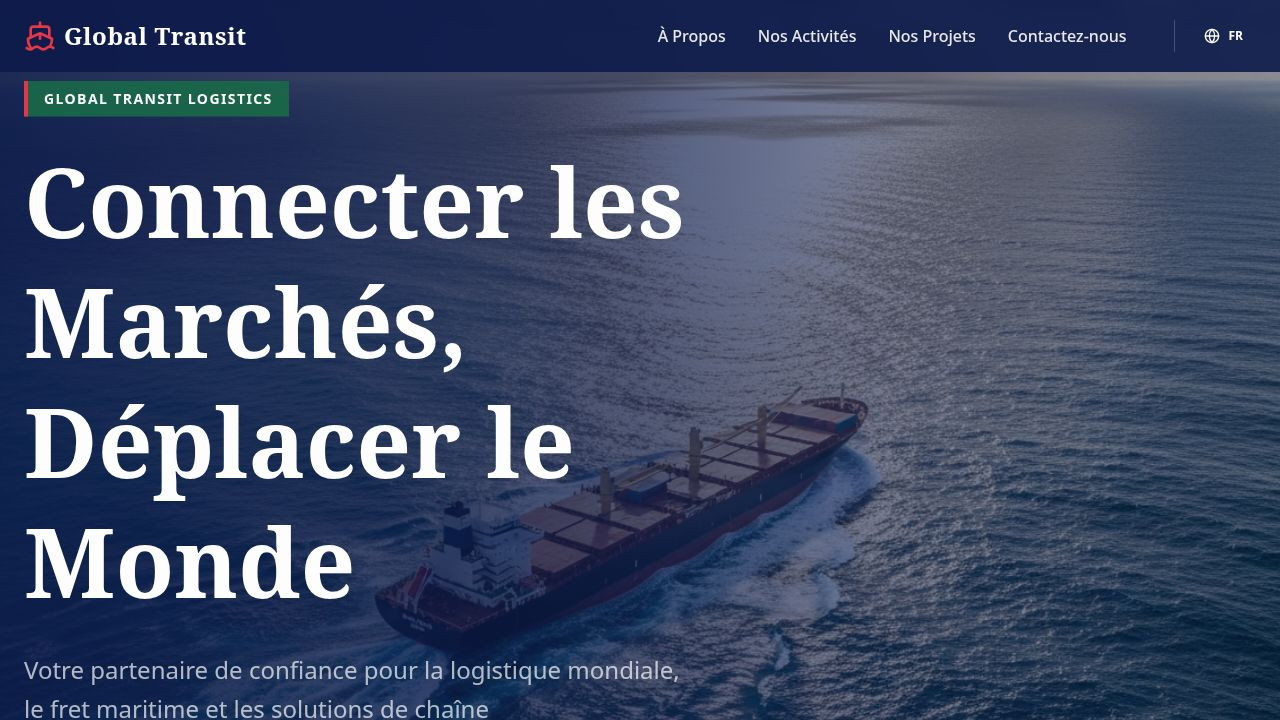
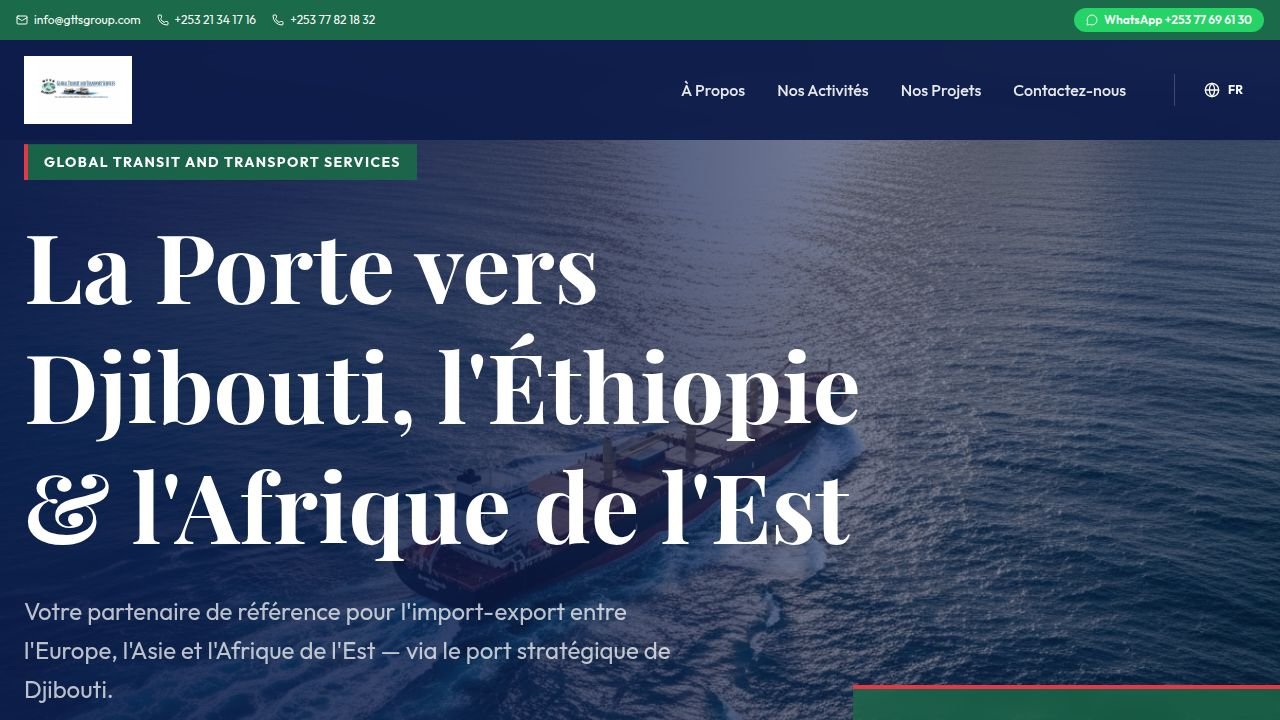
Add contact information header and update footer details
Add a new top information bar to the Navbar component displaying contact details and a WhatsApp link. Update the Footer component to reflect the new contact information. Adjust Hero section padding to accommodate the taller header. Update contact details in translations.ts for all supported languages.

Replit-Commit-Author: Agent
Replit-Commit-Session-Id: 2fb76b32-075e-4260-bca7-cb46e33f7829
Replit-Commit-Checkpoint-Type: full_checkpoint
Replit-Commit-Event-Id: 19b93517-0f2f-4354-bd1c-0c79bc31b962
Replit-Commit-Screenshot-Url: https://storage.googleapis.com/screenshot-production-us-central1/4466b6cd-e91d-4018-956e-8f0a4345f341/2fb76b32-075e-4260-bca7-cb46e33f7829/XrCFsln
Replit-Helium-Checkpoint-Created: true

diff --git a/artifacts/global-transit/src/components/layout/Navbar.tsx b/artifacts/global-transit/src/components/layout/Navbar.tsx
@@ -1,9 +1,8 @@
 import { useState, useEffect } from "react";
-import { Link } from "wouter";
 import { useLanguage } from "../../contexts/LanguageContext";
 import { Button } from "@/components/ui/button";
 import { DropdownMenu, DropdownMenuContent, DropdownMenuItem, DropdownMenuTrigger } from "@/components/ui/dropdown-menu";
-import { Globe, Menu, X } from "lucide-react";
+import { Globe, Menu, X, Phone, Mail, MessageCircle } from "lucide-react";
 import { Language } from "../../translations";
 
 const languages: { code: Language; label: string; name: string }[] = [
@@ -14,6 +13,9 @@ const languages: { code: Language; label: string; name: string }[] = [
   { code: 'so', label: 'SO', name: 'Soomaali' },
   { code: 'orm', label: 'OR', name: 'Afaan Oromoo' },
 ];
+
+const WHATSAPP_NUMBER = "25377696130";
+const WHATSAPP_URL = `https://wa.me/${WHATSAPP_NUMBER}`;
 
 export function Navbar() {
   const { language, setLanguage, t } = useLanguage();
@@ -37,98 +39,139 @@ export function Navbar() {
   };
 
   return (
-    <header className={`fixed top-0 w-full z-50 transition-all duration-300 ${isScrolled ? 'bg-primary shadow-md py-3' : 'bg-primary/90 backdrop-blur-sm py-5'}`}>
-      <div className="container mx-auto px-4 md:px-6 flex items-center justify-between">
-        <div className="flex items-center cursor-pointer" onClick={() => scrollTo('hero')}>
-          <div className="bg-white rounded-md px-3 py-1.5">
-            <img src="/logo.png" alt="Global Transit and Transport Services" className="h-14 w-auto" />
+    <header className="fixed top-0 w-full z-50">
+      {/* Top Info Bar */}
+      <div className="bg-[#1B6B4A] text-white text-xs py-2 px-4">
+        <div className="container mx-auto flex flex-wrap items-center justify-between gap-2">
+          <div className="flex items-center gap-4 flex-wrap">
+            <a href="mailto:info@gttsgroup.com" className="flex items-center gap-1.5 hover:text-white/80 transition-colors">
+              <Mail className="h-3 w-3 shrink-0" />
+              <span>info@gttsgroup.com</span>
+            </a>
+            <span className="hidden sm:flex items-center gap-1.5">
+              <Phone className="h-3 w-3 shrink-0" />
+              <span>+253 21 34 17 16</span>
+            </span>
+            <span className="hidden md:flex items-center gap-1.5">
+              <Phone className="h-3 w-3 shrink-0" />
+              <span>+253 77 82 18 32</span>
+            </span>
           </div>
+          <a
+            href={WHATSAPP_URL}
+            target="_blank"
+            rel="noopener noreferrer"
+            className="flex items-center gap-1.5 bg-[#25D366] hover:bg-[#20b859] text-white px-3 py-1 rounded-full font-semibold transition-colors"
+          >
+            <MessageCircle className="h-3 w-3" />
+            <span>WhatsApp +253 77 69 61 30</span>
+          </a>
         </div>
-
-        {/* Desktop Nav */}
-        <nav className="hidden lg:flex items-center gap-8">
-          <DropdownMenu>
-            <DropdownMenuTrigger className="text-white/90 hover:text-white transition-colors font-medium outline-none">
-              {t.nav.aboutUs}
-            </DropdownMenuTrigger>
-            <DropdownMenuContent className="bg-white border-none rounded-none shadow-xl min-w-[200px] mt-4">
-              <DropdownMenuItem className="cursor-pointer hover:bg-muted py-3 px-4 font-medium text-primary rounded-none" onClick={() => scrollTo('about')}>{t.nav.ourCompany}</DropdownMenuItem>
-              <DropdownMenuItem className="cursor-pointer hover:bg-muted py-3 px-4 font-medium text-primary rounded-none" onClick={() => scrollTo('about')}>{t.nav.ourTeam}</DropdownMenuItem>
-              <DropdownMenuItem className="cursor-pointer hover:bg-muted py-3 px-4 font-medium text-primary rounded-none" onClick={() => scrollTo('about')}>{t.nav.careers}</DropdownMenuItem>
-            </DropdownMenuContent>
-          </DropdownMenu>
-          
-          <button onClick={() => scrollTo('business')} className="text-white/90 hover:text-white transition-colors font-medium">
-            {t.nav.ourBusiness}
-          </button>
-          <button onClick={() => scrollTo('projects')} className="text-white/90 hover:text-white transition-colors font-medium">
-            {t.nav.ourProjects}
-          </button>
-          <button onClick={() => scrollTo('contact')} className="text-white/90 hover:text-white transition-colors font-medium">
-            {t.nav.contactUs}
-          </button>
-
-          <div className="flex items-center gap-4 ml-4 pl-4 border-l border-white/20">
-            <DropdownMenu>
-              <DropdownMenuTrigger asChild>
-                <Button variant="ghost" size="sm" className="text-white hover:bg-white/10 hover:text-white rounded-none flex items-center gap-2">
-                  <Globe className="h-4 w-4" />
-                  <span className="font-bold">{languages.find(l => l.code === language)?.label}</span>
-                </Button>
-              </DropdownMenuTrigger>
-              <DropdownMenuContent align="end" className="bg-white rounded-none shadow-xl border-none">
-                {languages.map((lang) => (
-                  <DropdownMenuItem 
-                    key={lang.code}
-                    className={`cursor-pointer py-2 px-4 rounded-none ${language === lang.code ? 'bg-primary/5 font-bold text-primary' : 'text-foreground'}`}
-                    onClick={() => setLanguage(lang.code)}
-                  >
-                    {lang.name}
-                  </DropdownMenuItem>
-                ))}
-              </DropdownMenuContent>
-            </DropdownMenu>
-          </div>
-        </nav>
-
-        {/* Mobile menu button */}
-        <button className="lg:hidden text-white" onClick={() => setMobileMenuOpen(!mobileMenuOpen)}>
-          {mobileMenuOpen ? <X className="h-6 w-6" /> : <Menu className="h-6 w-6" />}
-        </button>
       </div>
 
-      {/* Mobile Nav */}
-      {mobileMenuOpen && (
-        <div className="lg:hidden absolute top-full left-0 w-full bg-primary border-t border-white/10 shadow-xl flex flex-col p-4 z-50">
-          <button onClick={() => scrollTo('about')} className="text-left text-white py-4 border-b border-white/10 font-medium">
-            {t.nav.aboutUs}
-          </button>
-          <button onClick={() => scrollTo('business')} className="text-left text-white py-4 border-b border-white/10 font-medium">
-            {t.nav.ourBusiness}
-          </button>
-          <button onClick={() => scrollTo('projects')} className="text-left text-white py-4 border-b border-white/10 font-medium">
-            {t.nav.ourProjects}
-          </button>
-          <button onClick={() => scrollTo('contact')} className="text-left text-white py-4 border-b border-white/10 font-medium">
-            {t.nav.contactUs}
-          </button>
-          
-          <div className="pt-6 pb-2">
-            <p className="text-white/50 text-sm mb-3 uppercase tracking-wider">Select Language</p>
-            <div className="grid grid-cols-2 gap-2">
-              {languages.map((lang) => (
-                <button
-                  key={lang.code}
-                  onClick={() => { setLanguage(lang.code); setMobileMenuOpen(false); }}
-                  className={`text-left py-2 px-3 ${language === lang.code ? 'bg-white/20 text-white font-bold' : 'text-white/70 hover:bg-white/10'}`}
-                >
-                  {lang.name}
-                </button>
-              ))}
+      {/* Main Nav */}
+      <div className={`transition-all duration-300 ${isScrolled ? 'bg-primary shadow-md py-3' : 'bg-primary/95 backdrop-blur-sm py-4'}`}>
+        <div className="container mx-auto px-4 md:px-6 flex items-center justify-between">
+          <div className="flex items-center cursor-pointer" onClick={() => scrollTo('hero')}>
+            <div className="bg-white rounded-md px-3 py-1.5">
+              <img src="/logo.png" alt="Global Transit and Transport Services" className="h-14 w-auto" />
             </div>
           </div>
+
+          {/* Desktop Nav */}
+          <nav className="hidden lg:flex items-center gap-8">
+            <DropdownMenu>
+              <DropdownMenuTrigger className="text-white/90 hover:text-white transition-colors font-medium outline-none">
+                {t.nav.aboutUs}
+              </DropdownMenuTrigger>
+              <DropdownMenuContent className="bg-white border-none rounded-none shadow-xl min-w-[200px] mt-4">
+                <DropdownMenuItem className="cursor-pointer hover:bg-muted py-3 px-4 font-medium text-primary rounded-none" onClick={() => scrollTo('about')}>{t.nav.ourCompany}</DropdownMenuItem>
+                <DropdownMenuItem className="cursor-pointer hover:bg-muted py-3 px-4 font-medium text-primary rounded-none" onClick={() => scrollTo('about')}>{t.nav.ourTeam}</DropdownMenuItem>
+                <DropdownMenuItem className="cursor-pointer hover:bg-muted py-3 px-4 font-medium text-primary rounded-none" onClick={() => scrollTo('about')}>{t.nav.careers}</DropdownMenuItem>
+              </DropdownMenuContent>
+            </DropdownMenu>
+
+            <button onClick={() => scrollTo('business')} className="text-white/90 hover:text-white transition-colors font-medium">
+              {t.nav.ourBusiness}
+            </button>
+            <button onClick={() => scrollTo('projects')} className="text-white/90 hover:text-white transition-colors font-medium">
+              {t.nav.ourProjects}
+            </button>
+            <button onClick={() => scrollTo('contact')} className="text-white/90 hover:text-white transition-colors font-medium">
+              {t.nav.contactUs}
+            </button>
+
+            <div className="flex items-center gap-4 ml-4 pl-4 border-l border-white/20">
+              <DropdownMenu>
+                <DropdownMenuTrigger asChild>
+                  <Button variant="ghost" size="sm" className="text-white hover:bg-white/10 hover:text-white rounded-none flex items-center gap-2">
+                    <Globe className="h-4 w-4" />
+                    <span className="font-bold">{languages.find(l => l.code === language)?.label}</span>
+                  </Button>
+                </DropdownMenuTrigger>
+                <DropdownMenuContent align="end" className="bg-white rounded-none shadow-xl border-none">
+                  {languages.map((lang) => (
+                    <DropdownMenuItem
+                      key={lang.code}
+                      className={`cursor-pointer py-2 px-4 rounded-none ${language === lang.code ? 'bg-primary/5 font-bold text-primary' : 'text-foreground'}`}
+                      onClick={() => setLanguage(lang.code)}
+                    >
+                      {lang.name}
+                    </DropdownMenuItem>
+                  ))}
+                </DropdownMenuContent>
+              </DropdownMenu>
+            </div>
+          </nav>
+
+          {/* Mobile menu button */}
+          <button className="lg:hidden text-white" onClick={() => setMobileMenuOpen(!mobileMenuOpen)}>
+            {mobileMenuOpen ? <X className="h-6 w-6" /> : <Menu className="h-6 w-6" />}
+          </button>
         </div>
-      )}
+
+        {/* Mobile Nav */}
+        {mobileMenuOpen && (
+          <div className="lg:hidden absolute top-full left-0 w-full bg-primary border-t border-white/10 shadow-xl flex flex-col p-4 z-50">
+            <button onClick={() => scrollTo('about')} className="text-left text-white py-4 border-b border-white/10 font-medium">
+              {t.nav.aboutUs}
+            </button>
+            <button onClick={() => scrollTo('business')} className="text-left text-white py-4 border-b border-white/10 font-medium">
+              {t.nav.ourBusiness}
+            </button>
+            <button onClick={() => scrollTo('projects')} className="text-left text-white py-4 border-b border-white/10 font-medium">
+              {t.nav.ourProjects}
+            </button>
+            <button onClick={() => scrollTo('contact')} className="text-left text-white py-4 border-b border-white/10 font-medium">
+              {t.nav.contactUs}
+            </button>
+            <a
+              href={WHATSAPP_URL}
+              target="_blank"
+              rel="noopener noreferrer"
+              className="flex items-center gap-2 text-white py-4 border-b border-white/10 font-medium"
+            >
+              <MessageCircle className="h-4 w-4 text-[#25D366]" />
+              WhatsApp : +253 77 69 61 30
+            </a>
+
+            <div className="pt-6 pb-2">
+              <p className="text-white/50 text-sm mb-3 uppercase tracking-wider">Select Language</p>
+              <div className="grid grid-cols-2 gap-2">
+                {languages.map((lang) => (
+                  <button
+                    key={lang.code}
+                    onClick={() => { setLanguage(lang.code); setMobileMenuOpen(false); }}
+                    className={`text-left py-2 px-3 ${language === lang.code ? 'bg-white/20 text-white font-bold' : 'text-white/70 hover:bg-white/10'}`}
+                  >
+                    {lang.name}
+                  </button>
+                ))}
+              </div>
+            </div>
+          </div>
+        )}
+      </div>
     </header>
   );
 }

diff --git a/artifacts/global-transit/src/translations.ts b/artifacts/global-transit/src/translations.ts
@@ -92,8 +92,8 @@ export const translations = {
       info: {
         title: "Siège Social — Djibouti",
         address: "Avenue du Général de Gaulle, BP 2450, Djibouti-Ville",
-        phone: "+253 21 35 40 00",
-        email: "operations@globaltransit.dj"
+        phone: "+253 77 82 18 32 | +253 21 34 17 16 | +253 77 69 61 30",
+        email: "info@gttsgroup.com"
       }
     },
     footer: {
@@ -194,8 +194,8 @@ export const translations = {
       info: {
         title: "المقر الرئيسي — جيبوتي",
         address: "شارع الجنرال ديغول، ص.ب 2450، مدينة جيبوتي",
-        phone: "+253 21 35 40 00",
-        email: "operations@globaltransit.dj"
+        phone: "+253 77 82 18 32 | +253 21 34 17 16 | +253 77 69 61 30",
+        email: "info@gttsgroup.com"
       }
     },
     footer: {
@@ -296,8 +296,8 @@ export const translations = {
       info: {
         title: "ዋና መሥሪያ ቤት — ጅቡቲ",
         address: "አቨኑ ዱ ጄነራል ዴ ጎል፣ ፒኦ ሳጥን 2450፣ ጅቡቲ ከተማ",
-        phone: "+253 21 35 40 00",
-        email: "operations@globaltransit.dj"
+        phone: "+253 77 82 18 32 | +253 21 34 17 16 | +253 77 69 61 30",
+        email: "info@gttsgroup.com"
       }
     },
     footer: {
@@ -398,8 +398,8 @@ export const translations = {
       info: {
         title: "Makao Makuu — Djibouti",
         address: "Njia ya Jenerali de Gaulle, S.L.P 2450, Mji wa Djibouti",
-        phone: "+253 21 35 40 00",
-        email: "operations@globaltransit.dj"
+        phone: "+253 77 82 18 32 | +253 21 34 17 16 | +253 77 69 61 30",
+        email: "info@gttsgroup.com"
       }
     },
     footer: {
@@ -500,8 +500,8 @@ export const translations = {
       info: {
         title: "Xafiiska Guud — Jabuuti",
         address: "Avenue du Général de Gaulle, BP 2450, Magaalada Jabuuti",
-        phone: "+253 21 35 40 00",
-        email: "operations@globaltransit.dj"
+        phone: "+253 77 82 18 32 | +253 21 34 17 16 | +253 77 69 61 30",
+        email: "info@gttsgroup.com"
       }
     },
     footer: {
@@ -602,8 +602,8 @@ export const translations = {
       info: {
         title: "Waajjira Muummee — Jibuutii",
         address: "Avenue du Général de Gaulle, BP 2450, Magaalaa Jibuutii",
-        phone: "+253 21 35 40 00",
-        email: "operations@globaltransit.dj"
+        phone: "+253 77 82 18 32 | +253 21 34 17 16 | +253 77 69 61 30",
+        email: "info@gttsgroup.com"
       }
     },
     footer: {

diff --git a/artifacts/global-transit/src/components/layout/Footer.tsx b/artifacts/global-transit/src/components/layout/Footer.tsx
@@ -1,5 +1,5 @@
 import { useLanguage } from "../../contexts/LanguageContext";
-import { Linkedin, Twitter, Facebook } from "lucide-react";
+import { Linkedin, Twitter, Facebook, Phone, Mail, MessageCircle, MapPin } from "lucide-react";
 
 export function Footer() {
   const { t } = useLanguage();
@@ -52,10 +52,27 @@ export function Footer() {
 
           <div>
             <h4 className="font-serif font-bold text-lg mb-6">{t.contact.info.title}</h4>
-            <address className="not-italic text-white/60 space-y-4">
-              <p>{t.contact.info.address}</p>
-              <p>{t.contact.info.phone}</p>
-              <p>{t.contact.info.email}</p>
+            <address className="not-italic text-white/60 space-y-3">
+              <div className="flex items-start gap-2">
+                <MapPin className="h-4 w-4 text-secondary shrink-0 mt-0.5" />
+                <span>{t.contact.info.address}</span>
+              </div>
+              <div className="flex items-center gap-2">
+                <Phone className="h-4 w-4 text-secondary shrink-0" />
+                <a href="tel:+25321341716" className="hover:text-secondary transition-colors">+253 21 34 17 16</a>
+              </div>
+              <div className="flex items-center gap-2">
+                <Phone className="h-4 w-4 text-secondary shrink-0" />
+                <a href="tel:+25377821832" className="hover:text-secondary transition-colors">+253 77 82 18 32</a>
+              </div>
+              <div className="flex items-center gap-2">
+                <MessageCircle className="h-4 w-4 text-[#25D366] shrink-0" />
+                <a href="https://wa.me/25377696130" target="_blank" rel="noopener noreferrer" className="hover:text-[#25D366] transition-colors font-medium">+253 77 69 61 30 (WhatsApp)</a>
+              </div>
+              <div className="flex items-center gap-2">
+                <Mail className="h-4 w-4 text-secondary shrink-0" />
+                <a href="mailto:info@gttsgroup.com" className="hover:text-secondary transition-colors">info@gttsgroup.com</a>
+              </div>
             </address>
           </div>
 

diff --git a/artifacts/global-transit/src/components/sections/Hero.tsx b/artifacts/global-transit/src/components/sections/Hero.tsx
@@ -15,7 +15,7 @@ export function Hero() {
   };
 
   return (
-    <section id="hero" className="relative min-h-[100dvh] flex items-center pt-20 overflow-hidden bg-primary">
+    <section id="hero" className="relative min-h-[100dvh] flex items-center pt-36 overflow-hidden bg-primary">
       {/* Background Image with Overlay */}
       <div className="absolute inset-0 z-0">
         <img 
